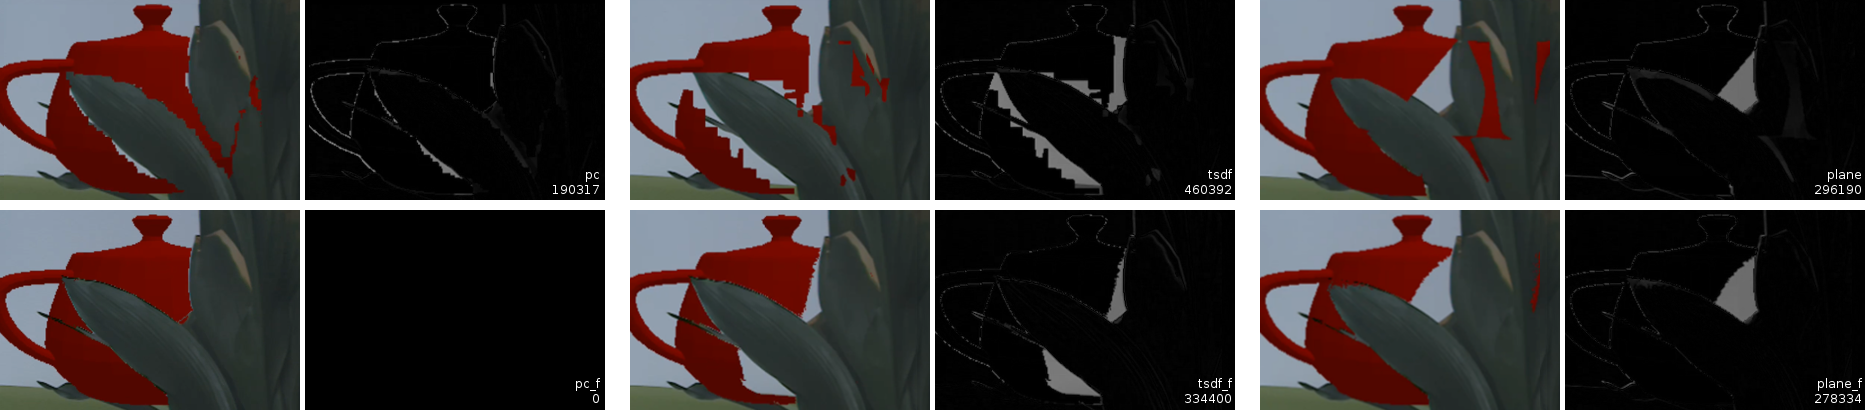
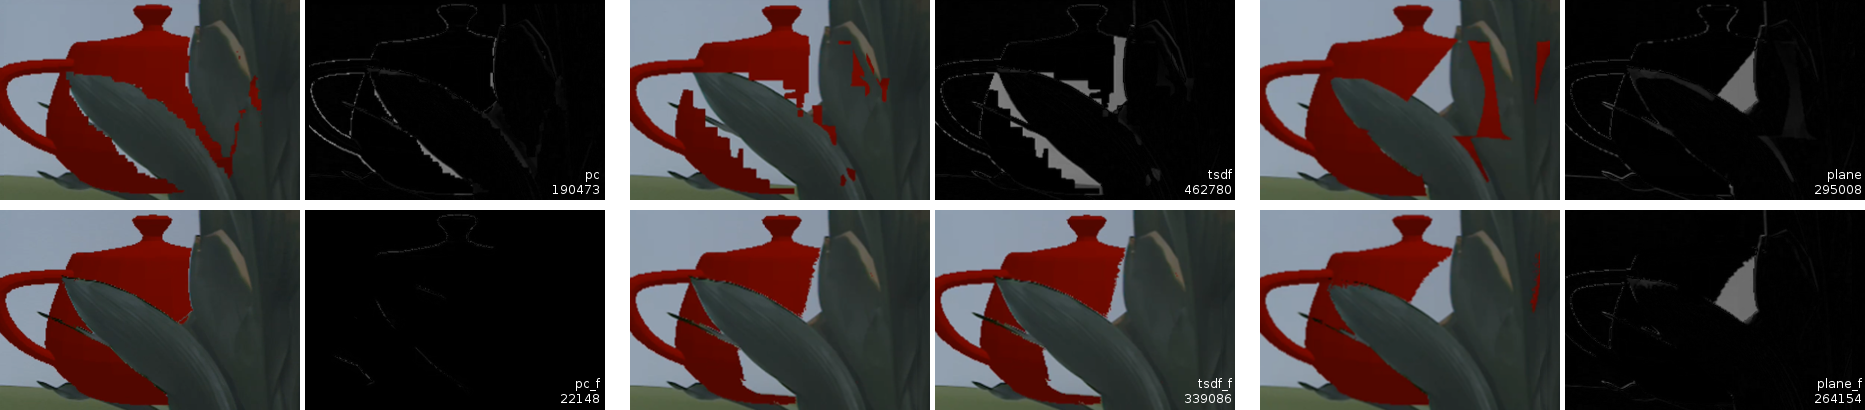
update results with custom reference images

Changed region(s): [[0.4976, 0.4976, 0.6842, 1.0], [0.9641, 0.439, 1.0, 0.4683], [0.9641, 0.9659, 0.9952, 0.9951]]

diff --git a/content/evaluation.tex b/content/evaluation.tex
@@ -73,10 +73,10 @@ d = \sum_i |p_i-q_i|
 \begin{tabular}{@{}rrrr@{}}
 \toprule
                       & \textbf{\begin{tabular}[c]{@{}r@{}}Pointcloud \\ Projektion\end{tabular}} & \textbf{\begin{tabular}[c]{@{}r@{}}TSDF \\ Rekonstruktion\end{tabular}} & \textbf{\begin{tabular}[c]{@{}r@{}}Ebenen \\ Rekonstruktion\end{tabular}} \\ \midrule
-\textbf{Szene 1}      & 499793                                                                    & 537532                                                                  & 300019                                                                    \\
-\textbf{Szene 1 + GF} & 441672                                                                    & Referenz                                                                & 250254                                                                    \\
-\textbf{Szene 2}      & 190317                                                                    & 460392                                                                  & 296190                                                                    \\
-\textbf{Szene 2 + GF} & Referenz                                                                  & 334400                                                                  & 278334                                                                    \\ \bottomrule
+\textbf{Szene 1}      & 495.695                                                                    & 560.210                                                                  & 247.327                                                                    \\
+\textbf{Szene 1 + GF} & 463.612                                                                    & 79.642                                                                & 166.589                                                                    \\
+\textbf{Szene 2}      & 190.473                                                                   & 462.780 & 295.008 \\
+\textbf{Szene 2 + GF} & 22.148                                                                 & 339.086 & 264.154 \\ \bottomrule
 \end{tabular}
 \caption{Distanzwert zwischen dem Referenzbild und den Ergebnisbildern der Verfahren in der jeweiligen Szene}
 \label{my-label}
